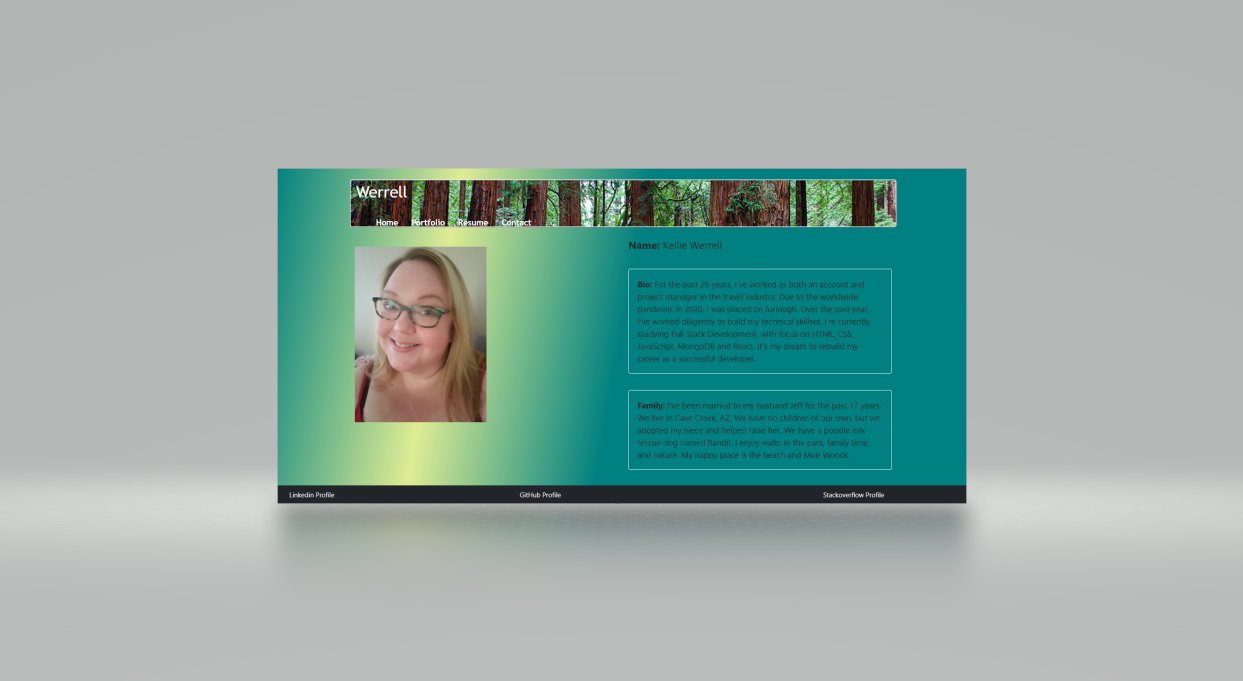
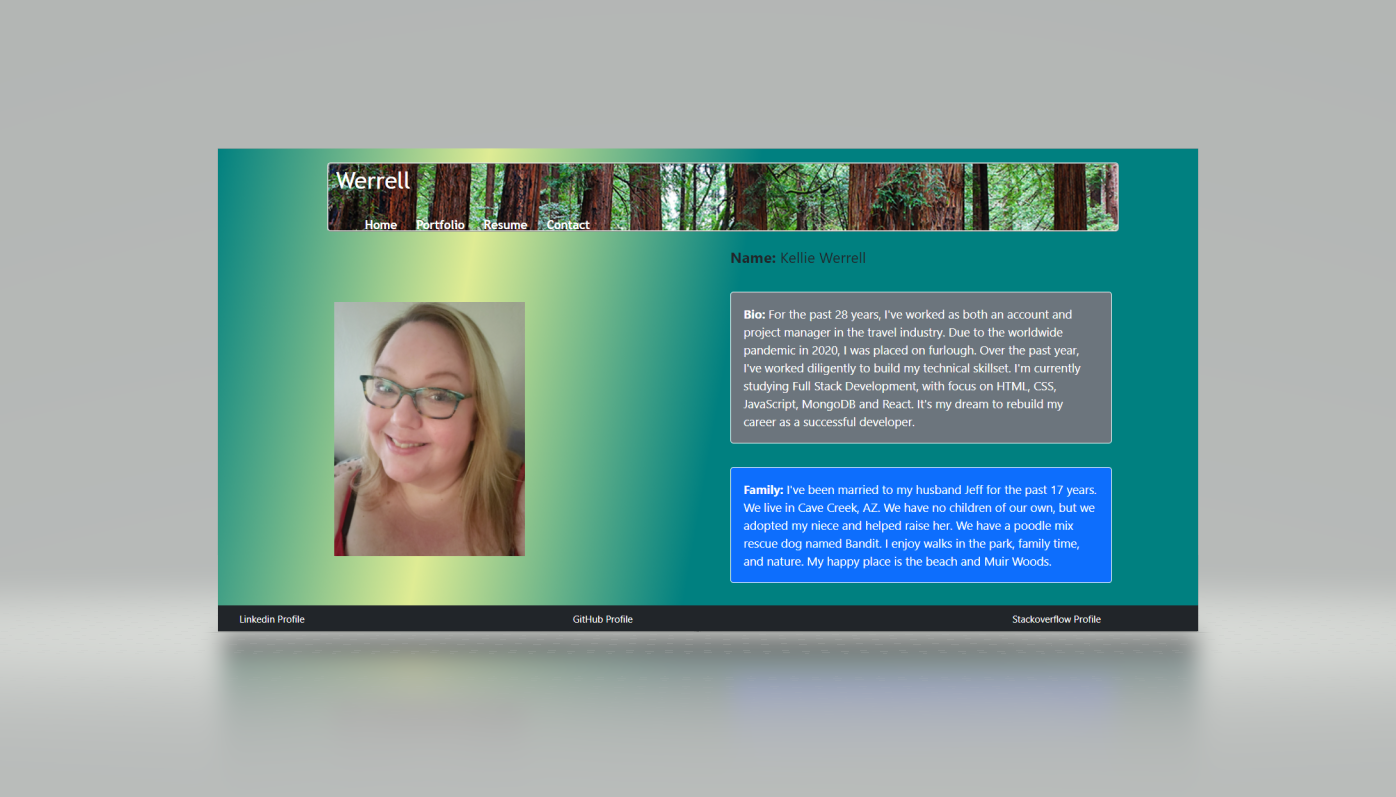
added more styling to text and updated readme screenshots

diff --git a/src/components/pages/Home.js b/src/components/pages/Home.js
@@ -10,9 +10,10 @@ const Home = () => (
         <section className="hero">
             <div id="about-me" className="container">
                 <div className="row">
-                    <div className="col-sm" id="headshot">
+                    <div className="col-sm" >
                         <br></br>
                         <br></br>
+                                     
                         <img src={KelW3} className="my-2" style={{ width: "50%" }} className="float-left" alt="headshot of developer" />
 
                     </div>
@@ -25,7 +26,7 @@ const Home = () => (
                             <strong>Name: </strong> Kellie Werrell
                         </p>
                         <br></br>
-                        <p className="bio">
+                        <p className="bio bg-secondary text-white">
                             <strong>Bio: </strong>
 
                             For the past 28 years, I've worked as both an account and project manager in the travel industry. Due to
@@ -38,7 +39,7 @@ const Home = () => (
                             developer.
                         </p >
                         <br></br>
-                        <p className="family">
+                        <p className="family bg-primary text-white">
                             <strong>Family: </strong>
 
                             I've been married to my husband Jeff for the past 17 years.  We live in Cave Creek, AZ.  We have no children of our own,

diff --git a/src/components/pages/Resume.js b/src/components/pages/Resume.js
@@ -16,7 +16,7 @@ function Resume() {
       
 
           <div id="resume" className="container">
-            <div className="card text-left border bg-primary">
+            <div className="card text-left border bg-secondary">
               <div className="card-body text-left">
                 <h5 className="card-title text-white">Resume:</h5>
                 <br></br>

diff --git a/src/components/pages/Portfolio.js b/src/components/pages/Portfolio.js
@@ -107,6 +107,7 @@ const Portfolio = () => (
 
 
 
+
     </section>
 );
 

diff --git a/README.md b/README.md
@@ -42,7 +42,7 @@ SO THAT I can assess whether they're a good candidate for an open position
 <br>
 
 ## Deployment
-https://infinite-falls-12185.herokuapp.com/
+https://infinite-falls-12185.herokuapp.com/TBD*****
 
 
 <br>
